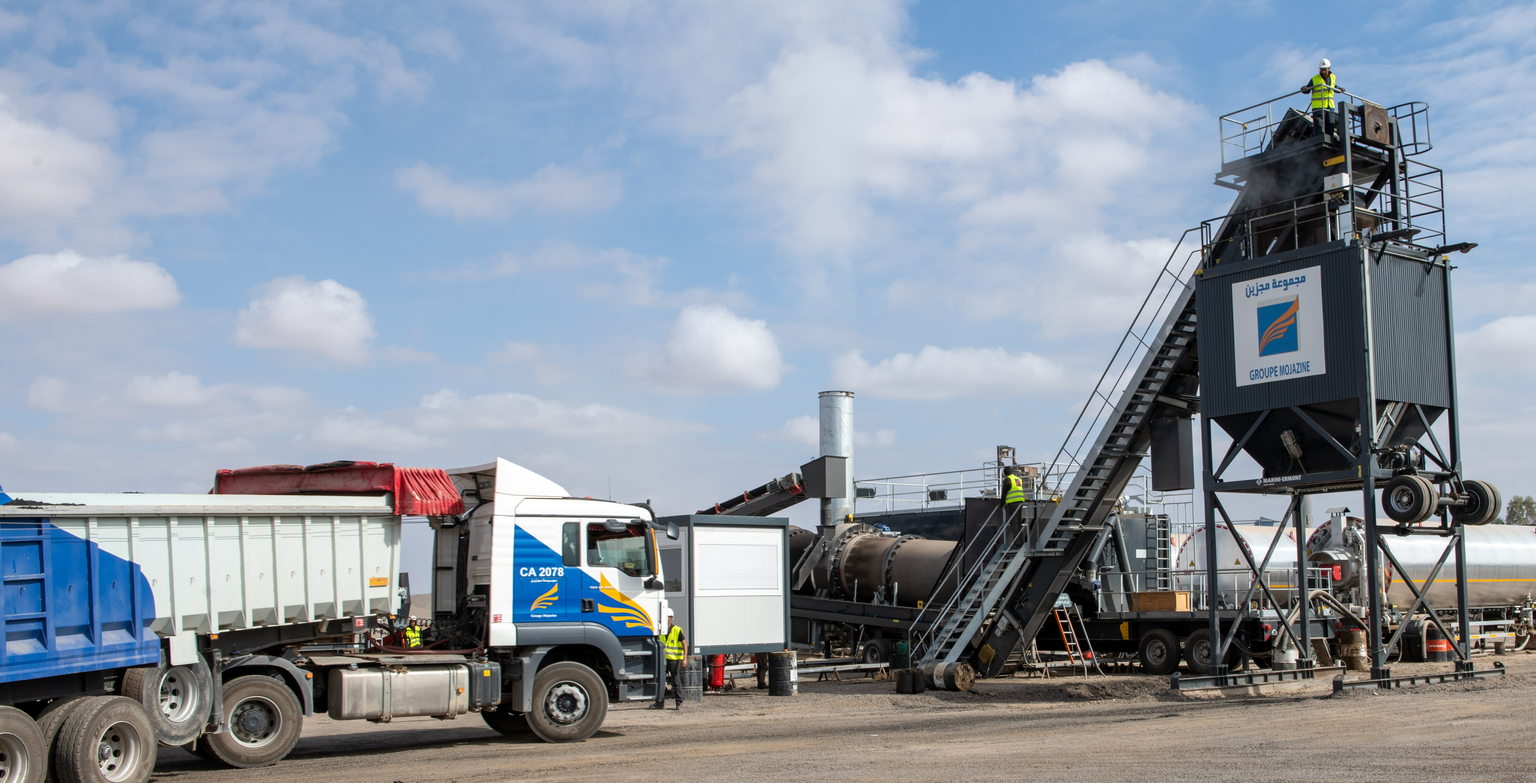
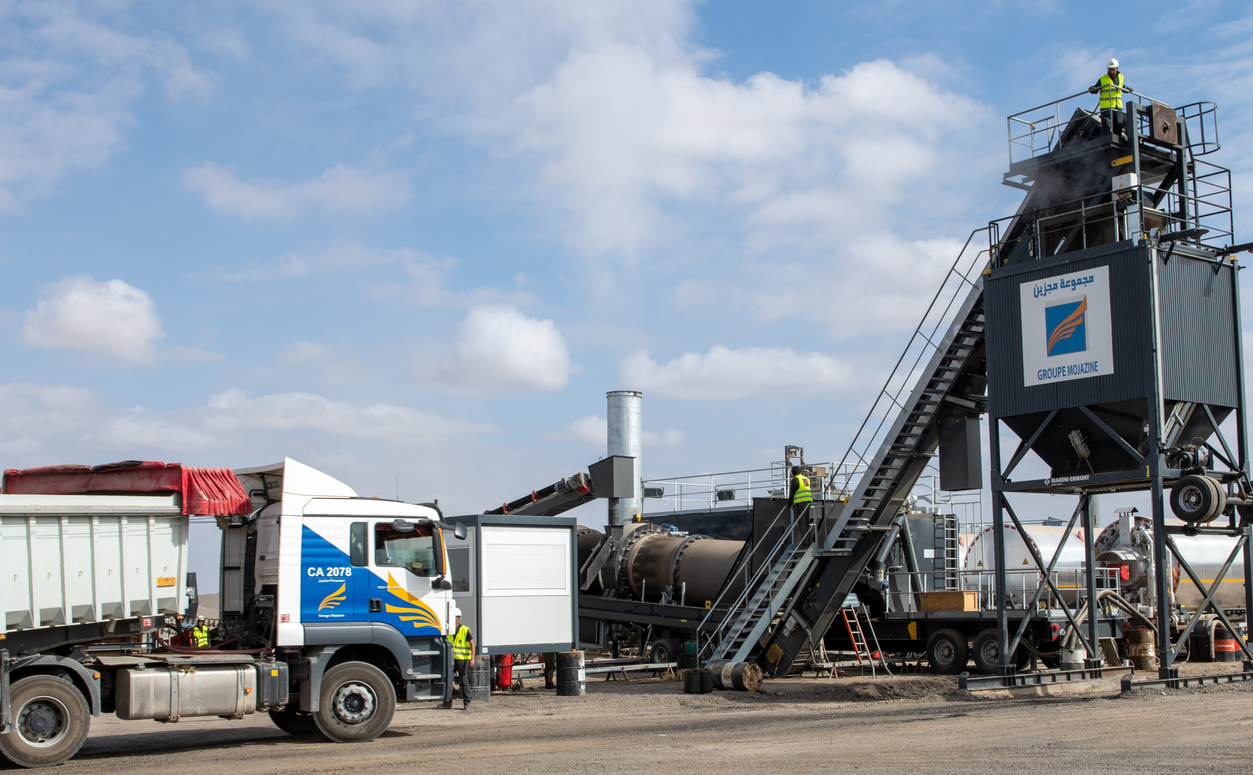
9

diff --git a/index.html b/index.html
@@ -44,11 +44,11 @@
 </div>
 <!-- =====================================================presentation de abrar indus=============================================== -->
 <div class="section1" id="propos">
-    <h2> <br> ABRAR INDUSTRIE </h2>
+    <h1> <br> ABRAR INDUSTRIE </h1>
     <div class="row">
         <p> Une entreprise de premier plan engagée dans la construction, la production, et l'exploitation des ressources nécessaires à l'essor de l'industrie. Avec nos filiales Bitumed, Moja Préfa et Sud Gravette, nous couvrons divers aspects de l'industrie, allant des travaux de construction aux produits préfabriqués et à l'exploitation de carrières.
         </p>
-        <img src="images/general1.png" alt="abrar-insutrie">
+        <img src="images/GENERAL.jpg" alt="abrar-insutrie">
     </div>
 </div>
 
@@ -141,9 +141,9 @@
             </div>
             <div class="contact-right">
                 <form>
-                    <input type="text" name="Name" placeholder="Your name " required>
-                    <input type="email" name="email" placeholder="Your Email" required>
-                    <textarea name="Message"  rows="6" placeholder="Your Message"></textarea>
+                    <input type="text" name="Name" placeholder="Nom et prénom " required>
+                    <input type="email" name="email" placeholder="votre Email" required>
+                    <textarea name="Message"  rows="6" placeholder="votre Message"></textarea>
                     <button type="submit" class="btn btn2"><i class="fa-solid fa-paper-plane"></i></button>
                 </form>
             </div>

diff --git a/style.css b/style.css
@@ -104,7 +104,8 @@
   margin-top: 15%;
   justify-content: center;
 }
-.section1 h2{
+.section1 h1{
+  text-align: center;
   color: #DEA50D;
   font-size: 50px;
   margin-left: 30px;
@@ -445,5 +446,5 @@ form .btn2{
 /* Styles for small screens */
 @media only screen and (max-width: 600px) {
   /* Header */
-  
+
 }
